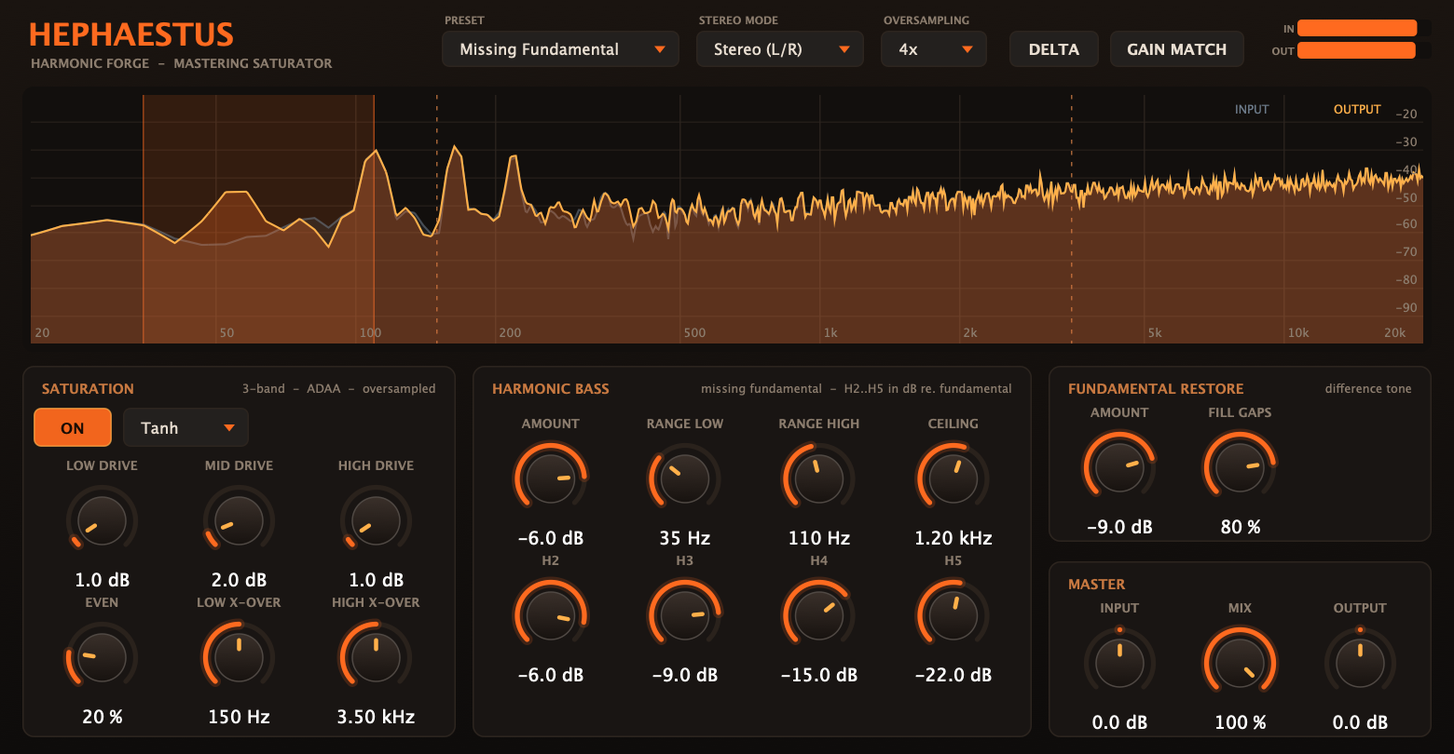
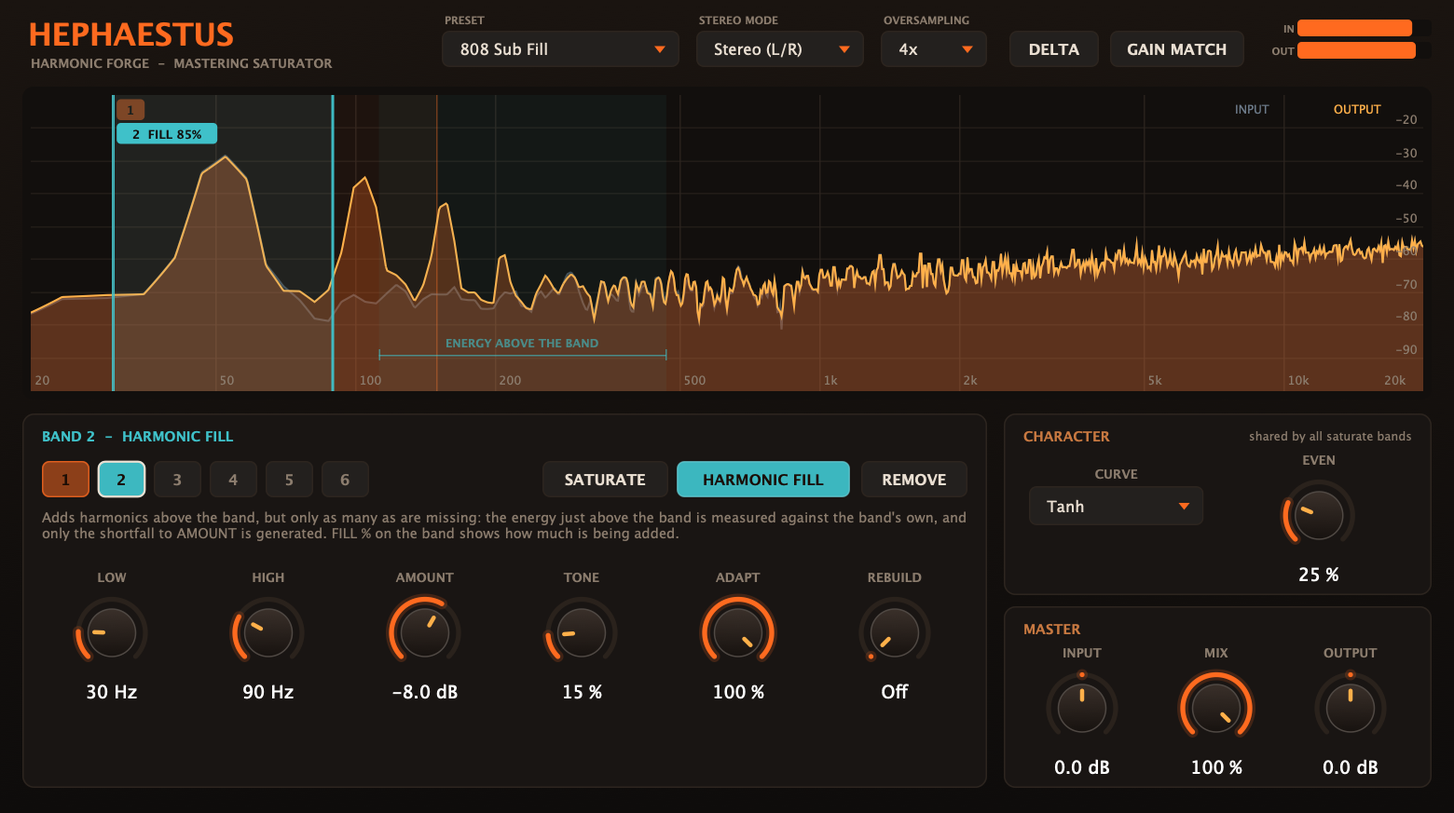
docs: update README, CLAUDE.md and screenshot for the band model

diff --git a/plugins/hephaestus/README.md b/plugins/hephaestus/README.md
@@ -5,47 +5,59 @@ missing fundamentals for tonal balance. Built with JUCE 8 for FL Studio (VST3/AU
 
 ![Hephaestus editor](docs/screenshot.png)
 
-*The "Missing Fundamental" preset on programme material whose 55 Hz fundamental is absent (only 110/165/220 Hz are present): the grey input trace has a hole in the orange bass range, the orange output fills it.*
+*An 808-style sub note (52 Hz) with nothing above it, in the "808 Sub Fill" preset. Band 2 (cyan) is a Harmonic Fill band: the grey input trace has no energy above the note, the orange output has grown harmonics at 104 and 156 Hz, and the band's tab reads FILL 85 % because that is how much of its Amount it is currently adding.*
 
-It does two jobs that are usually separate plugins:
+You draw **bands** over the spectrum. Each band is one of two things:
 
-| Engine | What it does |
+| Band mode | What it does |
 |---|---|
-| **Saturation** | 3-band (LR4 crossovers) harmonic saturator. Per-band drive, continuous Even ↔ Odd character, three curves, ADAA + linear-phase oversampling. Acts as a warmth/glue saturator in the lows and mids and as an exciter in the highs. |
-| **Harmonic Bass** | Virtual bass / *missing-fundamental* effect. Generates H2–H5 of the bass range with exact, individually adjustable weights so the ear reconstructs a bass the speakers can't reproduce. |
-| **Fundamental Restore** | Regenerates a fundamental that is *physically* missing while its harmonics are present (difference tone, 3f − 2f = f), and only fills gaps. |
+| **Saturate** (orange) | Drives the sound inside the band into a waveshaper (ADAA + linear-phase oversampling), so harmonics appear above it. Per-band Drive; Curve and Even are shared. Anything outside the band is left exactly as it is. |
+| **Harmonic Fill** (cyan) | Adds harmonics (H2-H5) of the band's content *above* the band, but only as many as are missing. The energy just above the band is measured against the band's own, and only the shortfall to **Amount** is generated, so the balance holds from one moment to the next instead of piling harmonics onto passages that already have them. Optionally **Rebuild** also regenerates a fundamental that is physically missing while its harmonics are present (difference tone, 3f - 2f = f). |
 
-Mastering tools: **Delta** (hear only what the plugin adds), **Gain Match** (loudness-matched
-A/B), **Mid/Side** mode, **Mix** (latency-compensated), and a live **input-vs-output spectrum**
-with the crossover points and bass range overlaid. The analyzer follows FabFilter Pro-Q's: an
-8192-point FFT, **4.5 dB/oct tilt around 1 kHz** by default, a 90 dB range, fast attack and a selectable
-release. Right-click it for Range (60/90/120 dB), Speed and Tilt (0/3/4.5/6 dB/oct); the choice is saved with the project.
+Up to six bands, any ranges, overlapping or not. Mastering tools: **Delta** (hear only what the plugin adds), **Gain Match** (loudness-matched A/B), **Mid/Side** mode, **Mix** (latency-compensated), and a live **input-vs-output spectrum**. The analyzer follows FabFilter Pro-Q's: an 8192-point FFT, **4.5 dB/oct tilt around 1 kHz** by default, a 90 dB range, fast attack and a selectable release. Right-click empty space in it for Range (60/90/120 dB), Speed and Tilt (0/3/4.5/6 dB/oct); the choice is saved with the project.
+
+## Why Harmonic Fill is adaptive
+
+A tonal-balance EQ fixes the *average* curve. It cannot fix a mix whose curve looks balanced but whose energy is not: a sub note with nothing above it, a bar where the low mids go empty, a section where they are full. Boosting those regions with an EQ lifts whatever happens to be there, and a fixed-amount harmonic generator adds the same harmonics whether or not they are already present. Harmonic Fill closes the loop instead:
+
+```
+band energy        E_b   (the band-passed input, ~100 ms)
+energy above band  E_a   (input, from 1.25 x High up to 5.2 x High, same smoothing)
+wanted             E_w = E_b x Amount          (Amount in dB, as an energy ratio)
+shortfall          s   = 1 - min (1, E_a / E_w)
+gain on harmonics  g   = (1 - Adapt) + Adapt x sqrt (s)       (smoothed over ~50 ms)
+```
+
+The measurement is made on the *input*, so there is no feedback to destabilise. **Adapt 0 %** is the old fixed-amount behaviour; **Adapt 100 %** adds only the shortfall. The harmonics are generated with exact weights (Chebyshev polynomials of the band signal divided by its own envelope, see below), so a hollow passage gets precisely `Amount` of harmonic energy and a full one gets none. This was measured (see Verification): at Amount -6 dB a hollow passage gets **-6.3 dB** of added energy relative to the band, a passage that already has plenty above the band gets **nothing**, and a quarter-filled one gets 0.76 of the full amount where the law predicts 0.80.
+
+What it does *not* do: it judges "already there" by energy in a fixed region above the band, not by whether that energy is musically the right harmonics. Dense material above the band will make it back off. Raise Amount to ask for more energy above the band, lower Adapt to add regardless.
 
 ## Using it in FL Studio
 
-1. FL Studio → *Options → Manage plugins* → *Find plugins* (the VST3 is installed in
+1. FL Studio -> *Options -> Manage plugins* -> *Find plugins* (the VST3 is installed in
    `~/Library/Audio/Plug-Ins/VST3/Hephaestus.vst3`).
 2. Put it on the master (or a bus) **before** the limiter. Latency (shown by FL as PDC) is
    reported automatically; it changes with the Oversampling setting.
-3. Start from a preset, then:
-   - **Thin or small-speaker bass:** *Missing Fundamental* or *Small-Speaker Bass*. Set
-     **Range Low/High** around the fundamentals you want to support (the orange band in the display).
-     Raise **Amount** until the display shows the dip filled, then confirm with **Delta**.
+3. **Make bands.** Double-click the spectrum where you want one and choose *Saturate* or *Harmonic Fill*, or use the buttons in the band panel. Drag a band's edges to resize it, its body to move it; right-click it to change its mode or remove it. The band panel below shows the selected band's controls; the numbered chips pick a band.
+4. **Or start from a preset:**
+   - **Thin or small-speaker bass:** *Missing Fundamental* or *Small-Speaker Bass*. Put a Harmonic Fill band over the fundamentals you want to support. Watch the FILL % on its tab and confirm with **Delta**.
    - **808 / sub that disappears on laptops:** *808 Sub Fill*.
-   - **Glue and warmth:** *Master Glue* / *Warm Tube* / *Tape Body*. Use **Gain Match** so more
-     saturation isn't mistaken for "better".
-   - **Dull top end:** *Air Exciter* (high-band drive; harmonics land above the band).
-4. Judge with **Delta** and with the analyzer. The display is tilted +4.5 dB/oct (as Pro-Q's default) so typical programme material looks flat.
+   - **Glue and warmth:** *Master Glue* / *Warm Tube* / *Tape Body*. Use **Gain Match** so more saturation isn't mistaken for "better".
+   - **Dull top end:** *Air Exciter* (a saturate band over the highs; harmonics land above it).
+5. Judge with **Delta** and with the analyzer. The display is tilted +4.5 dB/oct (as Pro-Q's default) so typical programme material looks flat.
 
 ### Parameter guide
 
-- **Even** — 0 % = symmetric curve → odd harmonics only (3rd, 5th…). Higher = asymmetric → adds 2nd, 4th… (tube-like).
-- **Curve** — Tanh (smooth), Atan (open, tape-like), Soft (algebraic, gritty, strongest upper odd harmonics).
-- **Harmonic Bass → H2–H5** — level of each harmonic *relative to the fundamental as the range filter passes it*, in dB (a fundamental sitting right on the Range Low/High edge is attenuated by that filter, so its harmonics are correspondingly lower). The 2nd and 3rd carry most of the missing-fundamental cue; keep H4/H5 lower for definition without bite.
-- **Ceiling** — low-pass on the generated harmonics.
-- **Restore → Fill gaps** — 100 % = add only what is missing (backs off once a real fundamental exists at that frequency); 0 % = always add.
-- **Oversampling** — Off / 2× / 4× / 8×, linear-phase. 4× is the default.
-- **Stereo mode** — Mid/Side saturates M and S; the bass engine then works on Mid only so bass stays centred.
+Every band has its own **Low** / **High** edge (20 Hz - 20 kHz; a fill band stops at 2 kHz, and an edge can't come closer than a ratio of 1.5).
+
+- **Saturate - Drive** - how hard the band is driven into the curve. Small signals stay untouched whatever the drive.
+- **Curve / Even** (shared by all saturate bands) - Even 0 % = symmetric curve -> odd harmonics only (3rd, 5th...); higher = asymmetric -> adds 2nd, 4th... (tube-like). Curves: Tanh (smooth), Atan (open, tape-like), Soft (algebraic, gritty, strongest upper odd harmonics).
+- **Fill - Amount** - harmonic energy above the band relative to the band's own, in dB; also what Adapt aims to keep there. Off at the minimum.
+- **Fill - Tone** - which harmonics carry that energy: dark = mostly the 2nd; middle = the usual virtual-bass roll-off (-3 / -9 / -16 dB for H3 / H4 / H5 re H2); bright = led by the 3rd. The four weights always carry unit energy, so Amount means the same at any tone.
+- **Fill - Adapt** - see above. 100 % = only what is missing.
+- **Fill - Rebuild** - regenerates a fundamental that is missing inside the band from the difference tone of the harmonics that are present, and only where it is missing. Off by default; experimental on dense material.
+- **Oversampling** - Off / 2x / 4x / 8x, linear-phase. 4x is the default.
+- **Stereo mode** - Mid/Side saturates M and S; fill bands then work on Mid only so bass stays centred.
 
 ## Research this is based on
 
@@ -59,47 +71,57 @@ release. Right-click it for Range (60/90/120 dB), Speed and Tilt (0/3/4.5/6 dB/o
 ## Signal flow
 
 ```
-in → gain ─┬─ dry (delayed by latency) ─────────────────────────────────────────┐
-           ├─ [M/S enc] ─┬─ Fundamental engine (base rate) ─ delay ──┐          │
-           │             └─ LR4 split → per band: ↑OS → ADAA shaper → ↓OS → sum ┴─ + ─ [M/S dec] ─ [gain match] ─ mix/delta ─ out
+in -> gain -+- dry (delayed by latency) ------------------------------------------------------+
+            +- [M/S enc] -+- fill band x N (base rate, adaptive) -> sum -> delay -----+          |
+                          +- saturate band x N: band-pass -> up -> ADAA -> down -> sum +- + -- [M/S dec] -- [gain match] -- mix/delta -- out
+                          +- clean copy, delayed by the oversampling latency ----------+
 ```
 
 Details that matter:
 
-- **ADAA is applied to the nonlinear residual only** (`f(u)` minus its tangent line at the bias point) and added to the untouched signal. Plain first-order ADAA is a `[1 1]/2` low-pass in the linear regime (≈ −5 dB at 15 kHz at 48 kHz); this form keeps small-signal gain exactly 1 while still anti-aliasing the distortion. The DC blocker acts on the residual only, so bass in the clean path is never phase-shifted.
-- **Small-signal gain is 1 for every drive, bias and curve**, so Drive changes tone, not just level.
-- **The fundamental engine runs at the host rate**: generated components stay below ~1.5 kHz, so there is nothing to alias.
+- **A saturate band adds only its distortion.** Each band shapes a band-passed copy of the signal and the *difference* (what the shaper added) is summed onto the untouched, latency-matched input. Nothing the user has not asked for is filtered, so bands can overlap or leave gaps and the plugin is exactly transparent at small signal for any arrangement (0.000 dB, six overlapping bands at 18 dB drive). It replaces a fixed three-band LR4 split, whose bands must sum flat and so cannot move freely.
+- **ADAA is applied to the nonlinear residual only** (`f(u)` minus its tangent line at the bias point). Plain first-order ADAA is a `[1 1]/2` low-pass in the linear regime (about -5 dB at 15 kHz at 48 kHz); this form keeps small-signal gain exactly 1 while still anti-aliasing the distortion. The DC blocker acts on the residual only, so bass in the clean path is never phase-shifted.
+- **The fundamental engine runs at the host rate**: a fill band's range stops at 2 kHz, so its harmonics stay well below Nyquist (a harmonic that would land above 0.48 x fs is dropped) and there is nothing to alias.
 - **The Chebyshev envelope releases slowly (`6 / lo`).** The k-th harmonic scales as `a^k` where `a` is the normalised amplitude, so envelope droop between waveform peaks costs accuracy mostly in H4/H5. Doubling the release from `3/lo` cut the worst-case error from 1.26 dB to 0.38 dB at 60 Hz, with harmonics still 48 dB down 50 ms after a note ends.
-- **Restore's gap detector** compares input vs restored energy per frequency in a bank of narrow resonators. Comparing against the whole bass band mistakes a 2nd harmonic for an existing fundamental, and correlating with the restored signal fails because a difference tone is in phase quadrature with the true fundamental of saw-like waveforms. Both were tried first and failed the test suite.
+- **Rebuild's gap detector** compares input vs restored energy per frequency in a bank of narrow resonators. Comparing against the whole band mistakes a 2nd harmonic for an existing fundamental, and correlating with the restored signal fails because a difference tone is in phase quadrature with the true fundamental of saw-like waveforms. Both were tried first and failed the test suite.
+- **Bands fade in and out** over one block when they are added or removed, and a removed band costs no CPU.
 
 ## Verification (all run on the final binaries)
 
-`HephaestusTests` (headless DSP, `Tests/Tests.cpp`) — measured, not assumed:
+`HephaestusTests` (headless DSP, `Tests/Tests.cpp`) - measured, not assumed:
 
 | Check | Result |
 |---|---|
-| Small-signal frequency response, 40 Hz–20 kHz, every oversampling mode | flat within **0.01 dB** |
-| Dry path vs reported latency | dry impulse lands **exactly** on the reported latency (49 / 61 / 65 samples at 2× / 4× / 8×) |
-| Alias energy, 5.3 kHz sine, +18 dB drive (re fundamental) | naive tanh **−18 dB** → ADAA only **−31 dB** → with oversampling **≈ −75 dB** |
-| Even control | bias 0: H2 < −160 dB; bias 0.5: H2 −15 dB |
-| Harmonic Bass weights vs targets (−6/−9/−15/−22), 45 / 60 / 90 Hz, two input levels | within **0.6 dB** (0.3 dB mid-range), identical at −6 and −26 dBFS |
-| Harmonic Bass tails | 48 dB down 50 ms after note-off, 95 dB down at 100 ms |
-| Restore, 120+180 Hz present, 60 Hz missing | restores 60 Hz at 0.299 (target 0.3); tracks level linearly (−6.0 dB for −6 dB); backs off to **0.000** when the real fundamental exists (0.230 when missing) |
-| Mid/Side keeps bass centred | 2nd harmonic of a side-only tone: −5 dB in L/R mode, **−93 dB** in M/S mode |
-| Mix / Delta | mix = 0 is the input delayed by exactly the latency; delta = wet − dry and mix = 0.37 is the linear blend, all **sample-exact** |
-| Gain Match | a −4.8 dB level drop becomes **0.0 dB** |
-| Spectrum analyzer | a bin-centred −6.02 dBFS sine reads **−6.02 dB**; 4 kHz with 4.5 dB/oct tilt reads +2.98 dB (expected +2.98); off-bin worst case −7.44 dB (Hann scalloping, < 1.5 dB); left-only signal reads −3 dB (L/R power is averaged) |
-| 600 randomised blocks (all params, block sizes 1–1500, mono/stereo, mode switches) | always finite |
-| CPU, 10 s stereo, everything on | 1 % (no OS) → 11 % of one core (8×), Apple M4 |
+| Small-signal frequency response, 40 Hz-20 kHz, every oversampling mode | flat within **0.001 dB**; also with six overlapping bands at 18 dB drive |
+| Dry path vs reported latency | dry impulse lands **exactly** on the reported latency (49 / 61 / 65 samples at 2x / 4x / 8x); the wet impulse lands on it too |
+| Alias energy, 5.3 kHz sine, +18 dB drive (re fundamental) | naive tanh **-18 dB** -> ADAA only **-30 dB** -> with oversampling **-70 to -72 dB** |
+| Even control | bias 0: H2 < -160 dB; bias 0.5: H2 -15 dB |
+| A saturate band acts only on its range | 100 Hz sine, +24 dB drive: 3rd harmonic **-11 dB** with the band on the tone, **-120 dB** with the band at 2-4 kHz |
+| Harmonic weights vs targets (-6/-9/-15/-22), 45 / 60 / 90 Hz, two input levels | within **0.6 dB** (0.3 dB mid-range), identical at -6 and -26 dBFS |
+| Harmonic tails | 48 dB down 50 ms after note-off, 95 dB down at 100 ms |
+| Tone | the four H2-H5 weights carry unit energy at every tone; dark is H2, bright is led by H3 |
+| **Adaptive fill**, 60 Hz band, Amount -6 dB | Adapt 0 %: a hollow and a full passage get the same (+0.6 dB apart). Adapt 100 %: hollow passage **-6.3 dB** re band (target -6.0); plenty above the band: **nothing**; a quarter of the target above the band: **0.76** of the full amount (law: 0.80) |
+| Rebuild, 120+180 Hz present, 60 Hz missing | restores 60 Hz at 0.299 (target 0.3); tracks level linearly (-6.0 dB for -6 dB); backs off to **0.000** when the real fundamental exists (0.230 when missing) |
+| Mid/Side keeps bass centred | 2nd harmonic of a side-only tone: -5.7 dB in L/R mode, **-93 dB** in M/S mode |
+| Mix / Delta | mix = 0 is the input delayed by exactly the latency; delta = wet - dry and mix = 0.37 is the linear blend, all **sample-exact** |
+| Switching a band off | after the fade the output is the delayed input, **sample-exact** (max error 0) |
+| Gain Match | a -4.9 dB level drop becomes **0.0 dB** |
+| Spectrum analyzer | a bin-centred -6.02 dBFS sine reads **-6.02 dB**; 4 kHz with 4.5 dB/oct tilt reads +2.98 dB (expected +2.98); off-bin worst case -7.44 dB (Hann scalloping, < 1.5 dB); left-only signal reads -3 dB (L/R power is averaged) |
+| 600 randomised blocks (all params incl. six random bands, block sizes 1-1500, mono/stereo, mode switches) | always finite |
+| CPU, 10 s stereo, six bands on (4 saturate, 2 adaptive fill with Rebuild) | 2 % (no OS) -> 15 % of one core (8x), Apple M4 |
 
-`HephaestusHostCheck` loads the installed **VST3** through JUCE's host wrapper: 5 sample rates (22.05–192 kHz) × 5 block sizes (1–4096) with every parameter randomised, latency reporting follows the oversampling choice (0 / 49 / 61 / 65 samples), state and all 8 presets round-trip. Apple's `auval` passes for the **AU**.
+`HephaestusUiCheck` drives the real spectrum component with synthetic mouse events: a band added at 1 kHz takes the first free slot; clicking where bands overlap selects the narrowest; dragging an edge moves only that edge; dragging the body keeps the width ratio; an edge can't cross the minimum width; a fill band is pulled to at most 2 kHz; a full plugin refuses a seventh band and reuses a freed slot.
+
+`HephaestusHostCheck` loads the installed **VST3** through JUCE's host wrapper: 5 sample rates (22.05-192 kHz) x 5 block sizes (1-4096) with every parameter randomised, latency reporting follows the oversampling choice (0 / 49 / 61 / 65 samples) and an impulse through the loaded plugin comes out exactly that many samples later, state and all 8 presets round-trip, and a session saved with the old fixed three-band layout loads as three saturate bands plus one fill band. Apple's `auval` passes for the **AU**.
 
 ## Known limitations (honest list)
 
 - **Not yet tested inside FL Studio itself.** It was validated through JUCE's VST3 host and `auval`; *pluginval* was not run (the sandbox blocked executing the downloaded binary). Load it in FL and report anything odd.
-- **Restore is experimental.** A squarer produces difference tones between *all* component pairs in its input band, so dense low-mid material can yield inharmonic bass content. It suits sparse bass material; leave it off for full mixes unless Delta says it helps.
-- **Mix below 100 %** blends a multiband (allpass-shifted) wet signal with the dry one, so expect slight phase interaction near the two crossover frequencies. Magnitude through the plugin is flat; use 100 % where you can.
-- **Gain Match** is a slow (~0.6 s) RMS match, clamped to ±12 dB. It will partly undo a deliberate bass boost, since low-end energy dominates RMS; that's why it's off by default.
+- **The mouse interaction has been checked with synthetic events, not by hand in a DAW.** Dragging, the add/remove menus and the band panel are covered by `HephaestusUiCheck` and screenshots, but not by a person using them.
+- **The adaptive fill judges "already there" by energy, not by harmonic content.** It compares the energy from 1.25 x High to 5.2 x High with the band's own; anything in that region counts, whether or not it is related to the band. On dense material it will often back off completely: that is the intended behaviour (the energy exists), but raise Amount or lower Adapt if you want it to add regardless. The Chebyshev weights are exact for sine-like band content; noise-like band content gives somewhat different harmonic energy, so the target is approximate there.
+- **Rebuild is experimental.** A squarer produces difference tones between *all* component pairs in its input band, so dense low-mid material can yield inharmonic bass content. It suits sparse bass material; leave it off for full mixes unless Delta says it helps.
+- **A saturate band shapes a band-passed copy** (4th-order Butterworth edges), and what the shaper added is summed onto the clean signal. Near a band's edges, where that copy's phase has turned, the shaper's gain reduction on the fundamental is applied with that phase. This was not measured separately; overlap bands or check with Delta if a band edge sits on something important.
+- **Gain Match** is a slow (~0.6 s) RMS match, clamped to +-12 dB. It will partly undo a deliberate bass boost, since low-end energy dominates RMS; that's why it's off by default.
 - **The analyzer's absolute level** uses a Hann window, so a sine falling between FFT bins reads up to 1.4 dB low. Its tilt and range options mirror Pro-Q's, but it is not a Pro-Q clone: Pro-Q's smoothing and peak-hold details are not published.
 - **Ad-hoc signed, not notarised.** Fine on this Mac. Distributing it needs a Developer ID signature and notarisation.
 - Windows/Linux builds should work (JUCE is cross-platform) but were not built or tested.
@@ -113,6 +135,7 @@ cmake -S . -B build -DCMAKE_BUILD_TYPE=Release    # fetches JUCE 8.0.16-security
 cmake --build build --target Hephaestus_VST3 Hephaestus_AU Hephaestus_Standalone   # installs to ~/Library/Audio/Plug-Ins
 cmake --build build --target HephaestusTests && ./build/HephaestusTests_artefacts/Release/HephaestusTests
 cmake --build build --target HephaestusHostCheck && ./build/HephaestusHostCheck_artefacts/Release/HephaestusHostCheck ~/Library/Audio/Plug-Ins/VST3/Hephaestus.vst3
+cmake --build build --target HephaestusUiCheck && ./build/HephaestusUiCheck_artefacts/Release/HephaestusUiCheck
 cmake --build build --target HephaestusSnapshot   # renders the editor to PNG
 ```
 
@@ -121,16 +144,17 @@ See `CLAUDE.md` for the design invariants and the single-source-of-truth map bef
 ## Layout
 
 ```
+Source/DSP/Band.h                band modes, range rules shared by engine and display
 Source/DSP/Biquad.h              double-precision biquads, Butterworth cascades, Bandpass pair
 Source/DSP/Waveshaper.h          tanh / atan / algebraic curves + residual ADAA
-Source/DSP/Saturator.h           LR4 3-band split, per-band oversampling + shaping
-Source/DSP/FundamentalEngine.h   Chebyshev virtual bass + difference-tone restore + gap detector
-Source/DSP/Engine.h              latency alignment, M/S, gain match, delta, meters
+Source/DSP/Saturator.h           user-placed saturate bands, per-band oversampling + shaping
+Source/DSP/FundamentalEngine.h   Chebyshev harmonics + adaptive fill + difference-tone rebuild + gap detector
+Source/DSP/Engine.h              latency alignment, band mixing, M/S, gain match, delta, meters
 Source/DSP/AnalyzerTap.h         lock-free FIFOs feeding the display
 Source/DSP/SpectrumAnalyzer.h    Pro-Q-style FFT analyzer (GUI-free, unit-tested)
-Source/Parameters.h              parameter layout, presets
+Source/Parameters.h              parameter layout, presets, band helpers, legacy-session migration
 Source/PluginProcessor.*         JUCE wrapper
-Source/PluginEditor.*, UI/       table-driven editor, look-and-feel, spectrum view
-Tests/                           DSP tests, VST3 host check, editor snapshot, shared helpers
+Source/PluginEditor.*, UI/       band panel, look-and-feel, spectrum view with draggable bands
+Tests/                           DSP tests, UI check, VST3 host check, editor snapshot, shared helpers
 docs/screenshot.png              editor render (generated by HephaestusSnapshot)
 ```

diff --git a/plugins/hephaestus/CLAUDE.md b/plugins/hephaestus/CLAUDE.md
@@ -1,8 +1,9 @@
 # CLAUDE.md
 
-Hephaestus: a JUCE 8 mastering saturator (VST3 / AU / Standalone, macOS) with a missing-fundamental
-bass engine. See `README.md` for what it does and the research behind it; this file is what you need
-to change it safely.
+Hephaestus: a JUCE 8 mastering saturator (VST3 / AU / Standalone, macOS). The user draws up to six
+bands over the spectrum; each is either **Saturate** or **Harmonic Fill** (an adaptive, missing-fundamental
+style harmonic generator). See `README.md` for what it does and the research behind it; this file is what
+you need to change it safely.
 
 ## Build and verify
 
@@ -13,30 +14,34 @@ export SDKROOT=$(xcrun --sdk macosx --show-sdk-path)
 cmake -S . -B build -DCMAKE_BUILD_TYPE=Release     # fetches JUCE 8.0.16-security (or uses third_party/JUCE)
 cmake --build build --target HephaestusTests -j 10 && ./build/HephaestusTests_artefacts/Release/HephaestusTests
 cmake --build build --target Hephaestus_VST3 Hephaestus_AU Hephaestus_Standalone -j 10
+cmake --build build --target HephaestusUiCheck && ./build/HephaestusUiCheck_artefacts/Release/HephaestusUiCheck
 cmake --build build --target HephaestusHostCheck && ./build/HephaestusHostCheck_artefacts/Release/HephaestusHostCheck ~/Library/Audio/Plug-Ins/VST3/Hephaestus.vst3
-cmake --build build --target HephaestusSnapshot && ./build/HephaestusSnapshot_artefacts/Release/HephaestusSnapshot docs/screenshot.png "Missing Fundamental"
+cmake --build build --target HephaestusSnapshot && ./build/HephaestusSnapshot_artefacts/Release/HephaestusSnapshot docs/screenshot.png "808 Sub Fill" sub 2
 auval -v aufx Hphs Hpha                             # Apple's AU validator
 ```
 
 - Building the plugin targets **installs** them to `~/Library/Audio/Plug-Ins/{VST3,Components}` (`COPY_PLUGIN_AFTER_BUILD`).
-- `HephaestusTests`, `HostCheck` and `Snapshot` are `EXCLUDE_FROM_ALL`; build them by name. `HephaestusTests` needs no GUI.
+- `HephaestusTests`, `UiCheck`, `HostCheck` and `Snapshot` are `EXCLUDE_FROM_ALL`; build them by name. `HephaestusTests` needs no GUI.
 - Definition of done for any DSP change: `HephaestusTests` passes **and** the README numbers still match its output.
+- Definition of done for a UI or parameter change: `UiCheck` passes, and `HostCheck` + `auval` after rebuilding the plugin.
 - pluginval is not available (the sandbox blocks running the downloaded binary); `HostCheck` + `auval` are the substitutes.
 
 ## Layout
 
 ```
 Source/DSP/        no GUI dependencies; everything here is covered by Tests/Tests.cpp
+  Band.h             BandMode, maxBands, effectiveRange(), harmonicReach(): where a band really sits
   Biquad.h           double-precision biquads, Butterworth, Bandpass pair
   Waveshaper.h       curves + residual-ADAA shaper
-  Saturator.h        LR4 3-band split, per-band oversample + shape
-  FundamentalEngine.h  Chebyshev "extend" + difference-tone "restore", GapDetector
-  Engine.h           latency alignment, M/S, gain match, delta, meters, analyzer taps
+  Saturator.h        user-placed saturate bands: band-pass, per-band oversample + shape, outputs only the distortion
+  FundamentalEngine.h  Chebyshev "extend" (+ adaptive gain) + difference-tone "rebuild", GapDetector, harmonicsForTone()
+  Engine.h           BandParams, latency alignment, band mixing, M/S, gain match, delta, meters, analyzer taps
   AnalyzerTap.h      lock-free sample FIFOs (audio thread -> editor)
   SpectrumAnalyzer.h Pro-Q-style FFT analyzer (GUI-free so its calibration is testable)
-Source/Parameters.h  parameter layout, presets, readParams()  <- the single source of truth for parameters
+Source/Parameters.h  parameter layout, presets, readParams(), band helpers, legacy migration  <- the single source of truth for parameters
 Source/Plugin*.{h,cpp}, Source/UI/   JUCE wrapper and editor
-Tests/               Tests.cpp (DSP), HostCheck.cpp (loads the VST3), Snapshot.cpp (editor -> PNG), Check.h, TestSignals.h
+Tests/               Tests.cpp (DSP), UiCheck.cpp (mouse drags, slots, legacy sessions), HostCheck.cpp (loads the VST3),
+                     Snapshot.cpp (editor -> PNG), Check.h, TestSignals.h
 ```
 
 ## Rules that keep it correct
@@ -47,28 +52,51 @@ Tests/               Tests.cpp (DSP), HostCheck.cpp (loads the VST3), Snapshot.c
 **Latency.** Every path that is summed with another must pass through an `IntDelay` set to the oversampling
 latency (`dryDelay`, `fundDelay`, `bypassDelay`). If you add a path, align it and extend test [2]/[8].
 
-**Saturator maths.** ADAA is applied to the *residual* (`f(u)` minus its tangent) and added to the untouched input, so
-small-signal gain is exactly 1 (test [1]). Do not "simplify" this back to plain ADAA: it low-passes the wet path
-(about -5 dB at 15 kHz without oversampling). ADAA runs in `double`; keep the first-sample priming in `AdaaState`
-(without it a non-zero bias clicks at start).
+**Saturate bands add their distortion; they never replace the signal.** `Saturator::process` writes only what the
+shapers add (`shapeBlock<Curve, false>`), and `Engine` sums that onto the clean, `bypassDelay`-aligned input. That
+is what makes small-signal gain exactly 1 for any arrangement of overlapping bands (test [1]). Do not route the
+clean signal through the band filters or the oversamplers, and do not go back to a complementary split.
+
+**ADAA maths.** ADAA is applied to the *residual* (`f(u)` minus its tangent) and added to the untouched input, so
+small-signal gain is exactly 1. Do not "simplify" this back to plain ADAA: it low-passes the wet path (about -5 dB at
+15 kHz without oversampling). ADAA runs in `double`; keep the first-sample priming in `AdaaState` (without it a
+non-zero bias clicks at start).
 
 **Low-frequency filters are `double`.** Poles near z = 1 do not survive single precision at tens of Hz.
 
+**Bands start and stop cleanly.** A band that is off and has faded out is not processed; when it returns its filters,
+ADAA state, oversampler and fill engine are reset (`startBand`, `runFillBand`). The fade is one block. Band edges
+glide towards their target so dragging doesn't zipper.
+
 **Fundamental engine.** Harmonic weights are exact only while the normalised amplitude `a` is ~1 (the k-th Chebyshev
 harmonic scales as `a^k`), so the envelope release is deliberately slow (`6 / lo`). Shortening it costs accuracy at
-the top harmonics (test [5]); lengthening it risks hanging tails (test [5b]). Restore's gap detector must stay
+the top harmonics (test [5]); lengthening it risks hanging tails (test [5b]). Rebuild's gap detector must stay
 frequency-selective (`GapDetector`): comparing against the whole band, or correlating with the restored signal,
 were both tried and failed.
 
-**Parameters.** IDs in `hep::id` are stored in sessions and automation: never rename or remove one. A new parameter
-needs a `ParameterID` version, an entry in `readParams()`, and (if it has a knob) a row in the editor's `knobSpecs` table.
-Session-wide controls go in `isGlobalParameter()` so presets leave them alone.
+**Adaptive fill.** `Amount` is the harmonics' total *energy* relative to the band (`harmonicsForTone` weights carry unit
+energy, so `extGain` = amount and `target` = amount squared). Adapt measures the energy above the band
+(`harmonicReach`) on the *input* and scales the harmonics by `(1 - adapt) + adapt * sqrt (shortfall)`. Keep the
+measurement on the input: measuring the output would make it a feedback loop. Test [5c] pins the law; if you change
+the reach, the time constants or the weights, re-run it and update the README numbers.
+
+**Parameters.** Global IDs in `hep::id` are stored in sessions and automation: never rename or remove one. Band ids come
+from `bandIds (i)` (`b1_lo` ... `b6_rebuild`) and are equally permanent. A new parameter needs a `ParameterID` version
+(bands use 2), an entry in `readParams()`, and (if it has a knob) a row in the editor's `knobSpecs` / `bandKnobSpecs`.
+Session-wide controls go in `isGlobalParameter()` so presets leave them alone. The very first layout (three fixed
+bands + one bass engine, ids `driveLow`, `fundLo`, ...) is gone; `migrateLegacyState()` turns such a session into bands,
+and `UiCheck` covers it. Never build a `juce::String` on the audio thread: look band parameters up through the cached
+`bandIds()` table.
 
 ## DRY: where each thing lives (change it there only)
 
 - parameter ranges, defaults, choice lists, "off" thresholds -> `Parameters.h` (the editor reads combo items from the parameter)
-- knob id / caption / tooltip / panel membership -> the `knobSpecs` and `panelSpecs` tables in `PluginEditor.cpp`
-- bass-range upper limit -> `effectiveRangeHigh()` (engine and spectrum view both call it)
+- per-band parameter ids -> `bandIds()`; adding / removing a band and switching its mode -> `addBand`, `removeBand`, `setBandMode`
+  (the spectrum menu, the double-click menu and the band panel buttons all call these)
+- where a band really sits (minimum width, the 2 kHz fill limit) and where its harmonics land -> `effectiveRange()` / `harmonicReach()` in `Band.h`
+  (engine, spectrum view and tests all call them)
+- band colours -> `colour::forMode()` in `Look.h`
+- knob id / caption / tooltip / panel membership -> `knobSpecs` and `panelSpecs` (character, master) and `bandKnobSpecs` (the six slots that follow the selected band) in `PluginEditor.cpp`
 - log-frequency axis -> `FreqAxis` in `SpectrumView.h`
 - test signals and `check()` -> `Tests/TestSignals.h`, `Tests/Check.h`
 
@@ -79,6 +107,15 @@ Session-wide controls go in `isGlobalParameter()` so presets leave them alone.
   Its editor is a native view, so editor screenshots must instantiate `HephaestusProcessor` directly (`Snapshot.cpp`).
 - `runDispatchLoopUntil` needs `JUCE_MODAL_LOOPS_PERMITTED=1` in the test targets.
 - The analyzer uses Hann, so an off-bin sine can read up to 1.42 dB low (scalloping). That is expected, not a bug.
+- `Component::hitTest (int, int)` is virtual: don't name a one-argument helper `hitTest` (it hides it and the plugin's
+  warning flags reject that). Don't name a local `range` inside `SpectrumView` either; it shadows the analyzer setting.
+- The editor's band panel is driven by `bandSignature()` polled from the timer (selection, which bands exist, their
+  modes); knobs are re-attached when it changes. If you add state that changes what the panel shows, put it in the signature.
+- `HostCheck` randomises every wrapper parameter, the host's own **Bypass** included; it must be cleared before anything
+  that measures audio (it ends up engaged or not depending on how many parameters precede it, so adding parameters can
+  silently flip it). Symptom: audio undelayed and latency "stuck" at whatever it was before.
+- A hosted VST3 wraps state in its own chunk, so `HostCheck` cannot feed it a hand-built session; legacy-session
+  tests go through `HephaestusProcessor` directly (`UiCheck`).
 
 ## Conventions
 
